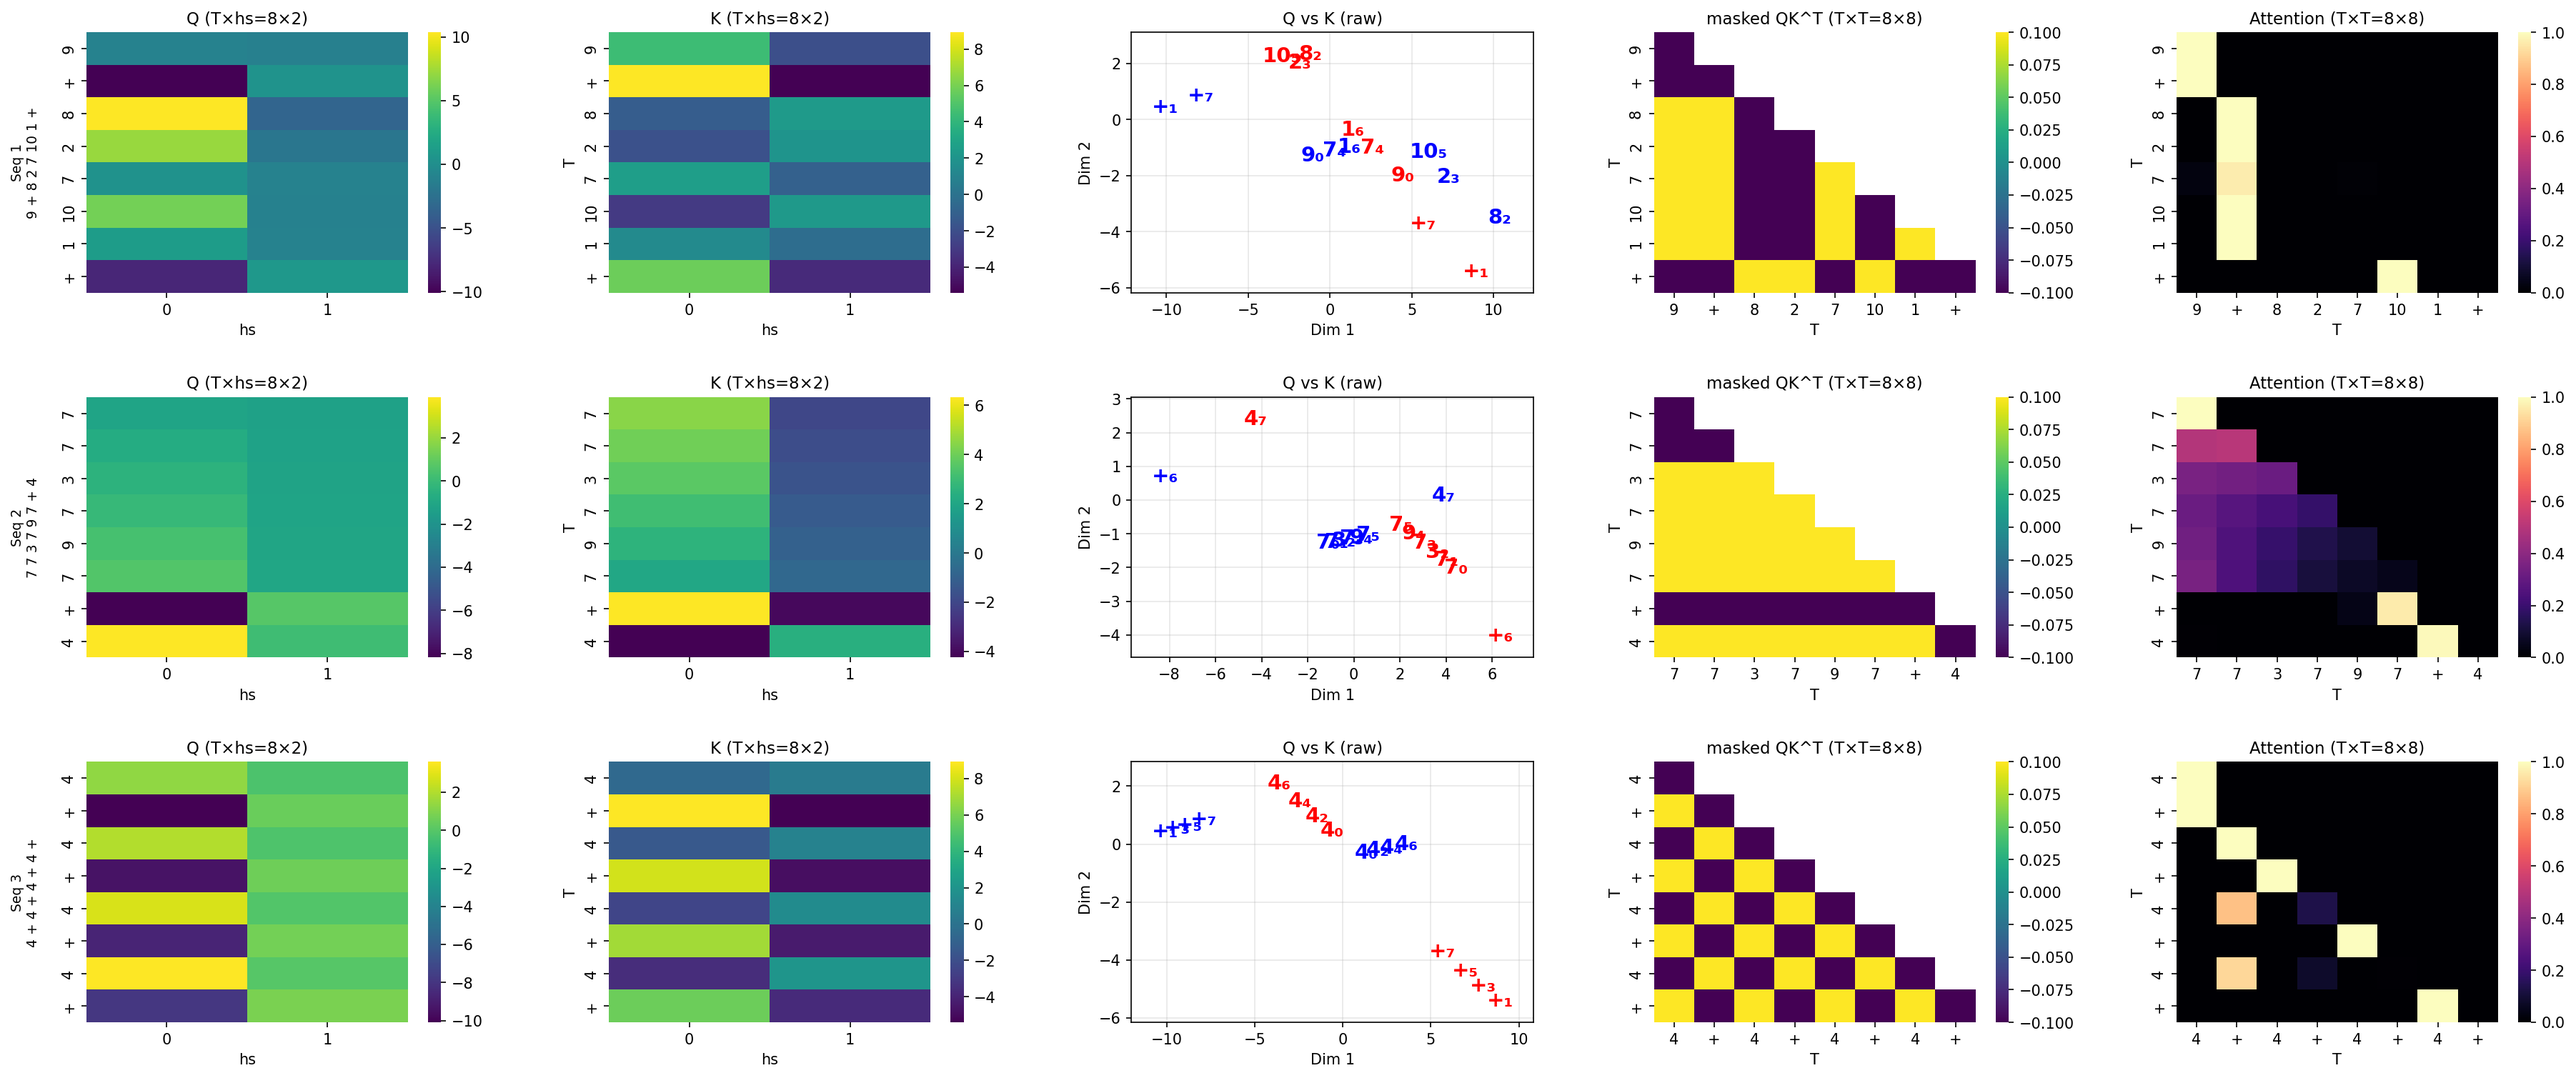
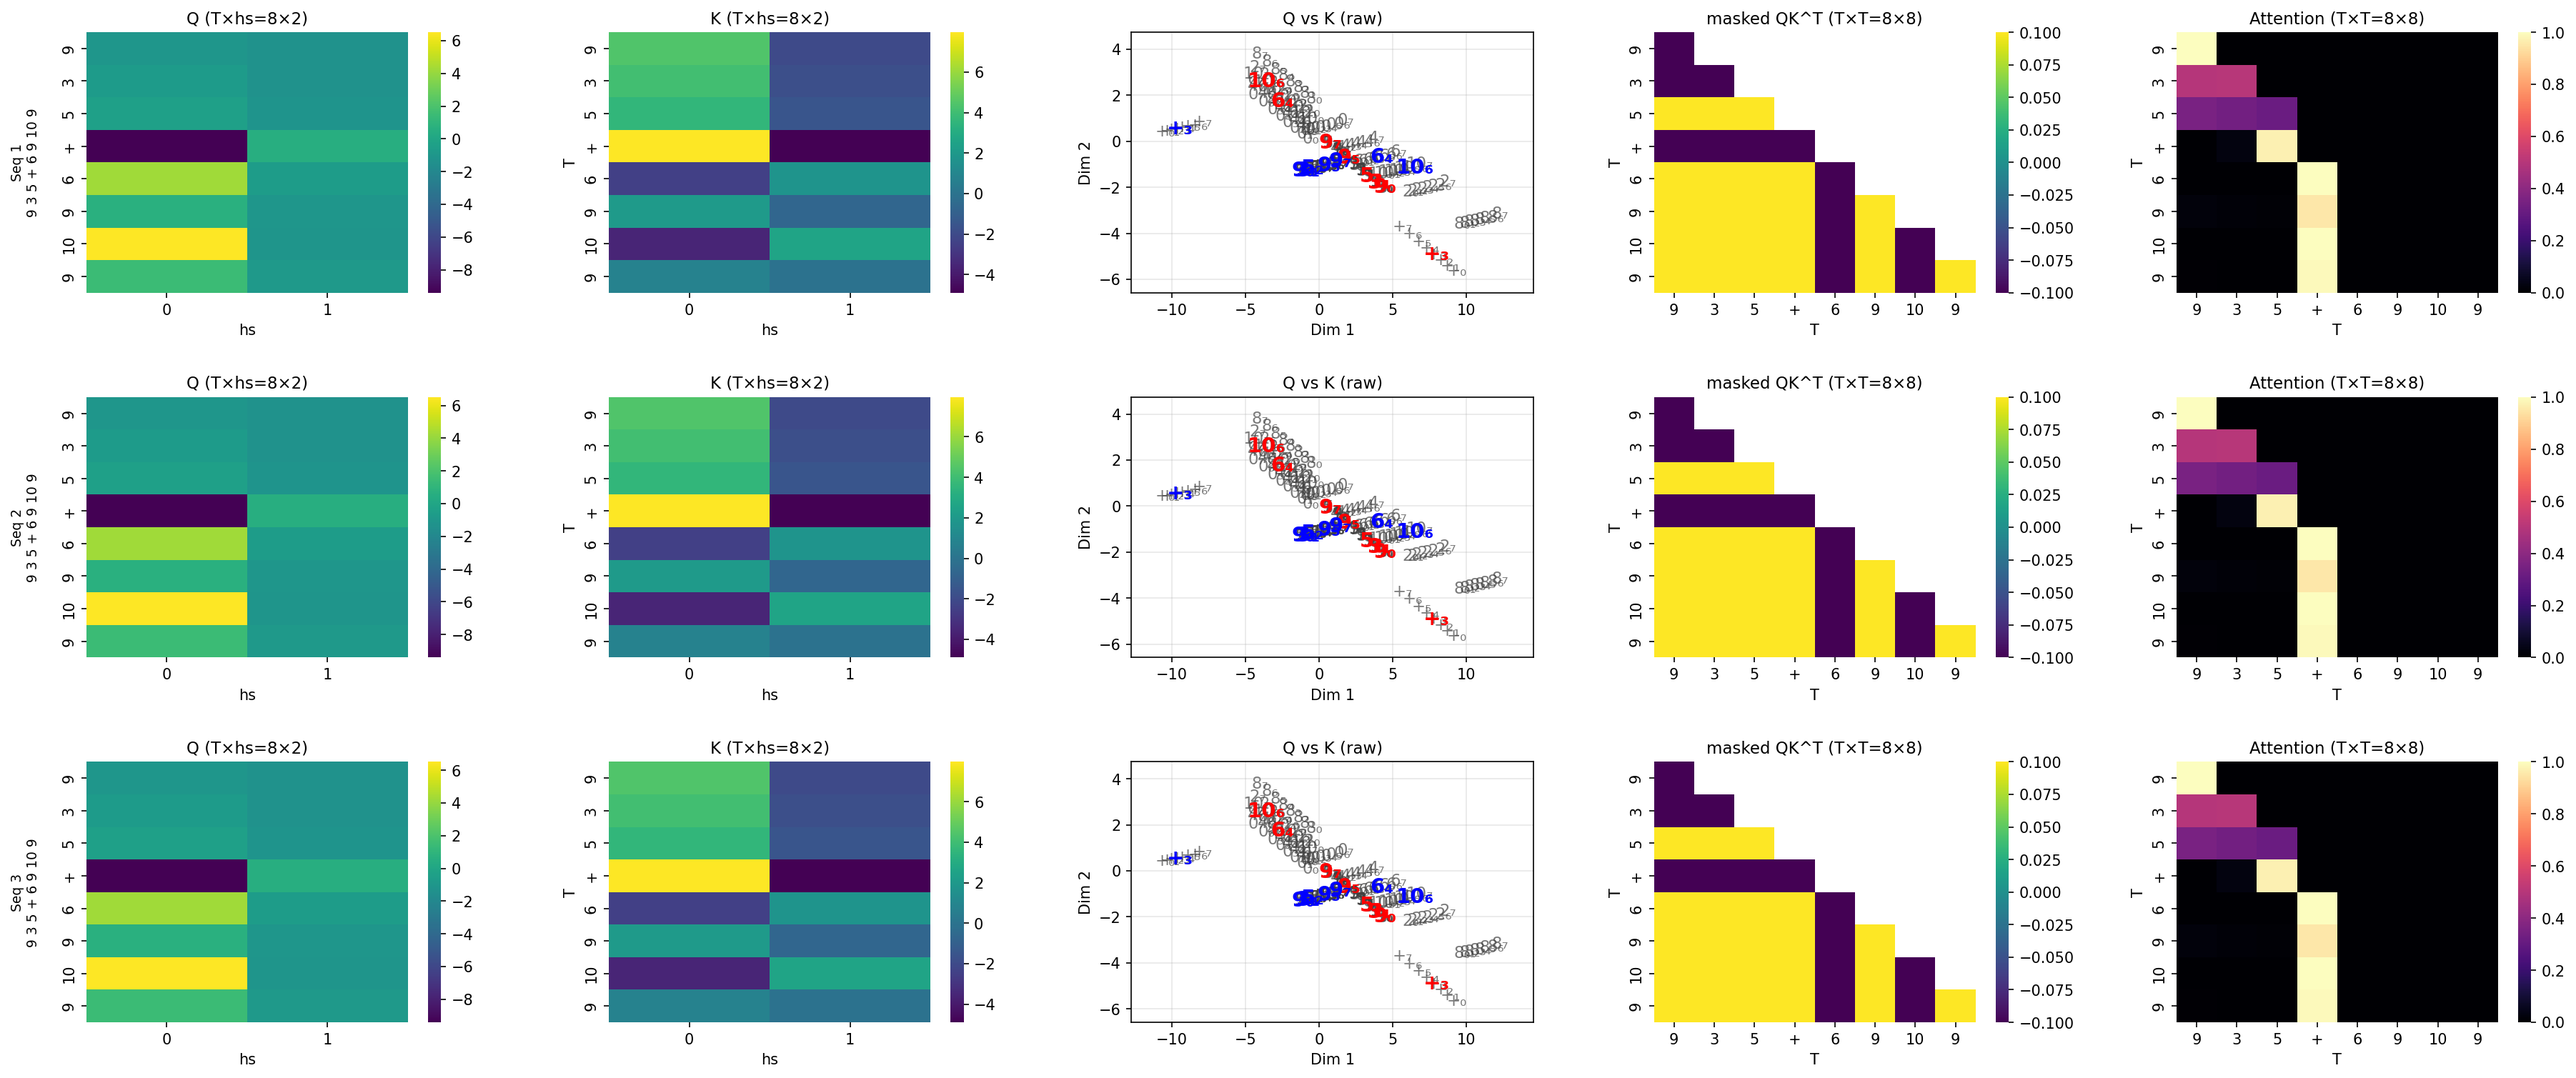
organized figures (figure 17 is left)

diff --git a/plotting/plots.py b/plotting/plots.py
@@ -2467,13 +2467,19 @@ def plot_weights_qkv_two_sequences(model, X_list, itos, save_path=None, num_sequ
         ax.set_ylim(y_min - y_margin, y_max + y_margin)
         
         # Background overlay: ALL Q/K combinations (annotated, dark visible grey)
+        # Draw overlay FIRST so it's underneath
         for i, label in enumerate(all_QK_labels):
-            # Overlay Q points (dark grey, more visible)
-            ax.text(all_Q_2d_overlay[i, 0], all_Q_2d_overlay[i, 1], label,
-                   fontsize=14, alpha=0.6, ha='center', va='center', color='dimgray', zorder=1)
-            # Overlay K points (dark grey, more visible)
-            ax.text(all_K_2d_overlay[i, 0], all_K_2d_overlay[i, 1], label,
-                   fontsize=14, alpha=0.6, ha='center', va='center', color='dimgray', zorder=1)
+            x_q, y_q = all_Q_2d_overlay[i, 0], all_Q_2d_overlay[i, 1]
+            x_k, y_k = all_K_2d_overlay[i, 0], all_K_2d_overlay[i, 1]
+            # Check if points are within axis limits before drawing
+            if x_min - x_margin <= x_q <= x_max + x_margin and y_min - y_margin <= y_q <= y_max + y_margin:
+                ax.text(x_q, y_q, label,
+                       fontsize=11, alpha=0.7, ha='center', va='center', 
+                       color='#404040', zorder=1)  # Smaller font size, darker grey
+            if x_min - x_margin <= x_k <= x_max + x_margin and y_min - y_margin <= y_k <= y_max + y_margin:
+                ax.text(x_k, y_k, label,
+                       fontsize=11, alpha=0.7, ha='center', va='center', 
+                       color='#404040', zorder=1)  # Smaller font size, darker grey
         
         # Foreground: Sequence-specific Q/K points
         for i, (token, pos) in enumerate(zip(tokens, range(len(tokens)))):
@@ -2516,8 +2522,11 @@ def plot_weights_qkv_two_sequences(model, X_list, itos, save_path=None, num_sequ
     
     plt.tight_layout(rect=[0, 0, 1, 0.98])
     if save_path:
-        # Save with meaningful name: query_key_attention (contains Q, K, masked QK^T, Attention)
-        save_path_part1 = save_path.replace('qkv.png', 'qkv_query_key_attention.png') if 'qkv.png' in save_path else save_path.replace('.png', '_query_key_attention.png') if save_path.endswith('.png') else save_path + '_query_key_attention.png'
+        # Save directly to the numbered filename (12_qk_attention.png)
+        # Extract directory and base name, then construct numbered filename
+        import os
+        save_dir = os.path.dirname(save_path)
+        save_path_part1 = os.path.join(save_dir, "12_qk_attention.png")
         plt.savefig(save_path_part1, bbox_inches='tight', dpi=150)
         plt.close()
     else:
@@ -2639,9 +2648,14 @@ def plot_weights_qkv_two_sequences(model, X_list, itos, save_path=None, num_sequ
         ax.set_ylim(ylim_shared)
         
         # Background overlay: ALL V combinations (annotated, dark visible grey)
+        # Draw overlay FIRST so it's underneath
         for i, label in enumerate(all_V_labels):
-            ax.text(all_V_2d_overlay[i, 0], all_V_2d_overlay[i, 1], label,
-                   fontsize=9, alpha=0.6, ha='center', va='center', color='dimgray', zorder=1)
+            # Check if point is within axis limits before drawing
+            x, y = all_V_2d_overlay[i, 0], all_V_2d_overlay[i, 1]
+            if xlim_shared[0] <= x <= xlim_shared[1] and ylim_shared[0] <= y <= ylim_shared[1]:
+                ax.text(x, y, label,
+                       fontsize=7, alpha=0.7, ha='center', va='center', 
+                       color='#404040', zorder=1)  # Smaller font size, darker grey
         
         # Foreground: Sequence-specific V points
         for i, (token, pos) in enumerate(zip(tokens, range(len(tokens)))):
@@ -2686,8 +2700,11 @@ def plot_weights_qkv_two_sequences(model, X_list, itos, save_path=None, num_sequ
     
     plt.tight_layout(rect=[0, 0, 1, 0.98])
     if save_path:
-        # Save with meaningful name: value_output (contains Attention, V, Final Output)
-        save_path_part2 = save_path.replace('qkv.png', 'qkv_value_output.png') if 'qkv.png' in save_path else save_path.replace('.png', '_value_output.png') if save_path.endswith('.png') else save_path + '_value_output.png'
+        # Save directly to the numbered filename (13_value_output.png)
+        # Extract directory and base name, then construct numbered filename
+        import os
+        save_dir = os.path.dirname(save_path)
+        save_path_part2 = os.path.join(save_dir, "13_value_output.png")
         plt.savefig(save_path_part2, bbox_inches='tight', dpi=150)
         plt.close()
     else:
@@ -4558,17 +4575,18 @@ def plot_v_before_after_demo_sequences(model, itos, sequences, save_dir=None, ar
             px_final, py_final = x_np[i, 0] + v_after[i, 0], x_np[i, 1] + v_after[i, 1]  # Final position
             for c in range(n_cols):
                 ax = axes[0, c]
-                # Draw arrow from embed to final
-                dx = px_final - px0
-                dy = py_final - py0
-                arrow_length = np.sqrt(dx**2 + dy**2)
-                head_size = max(0.1, min(0.2, arrow_length * 0.1))
-                ax.arrow(px0, py0, dx, dy,
-                        head_width=head_size, head_length=head_size, fc='white', ec='white', alpha=0.8, length_includes_head=True, width=0.01, zorder=4)
-                # Annotate at beginning (embed position)
+                # Draw arrow from embed to final (skip arrows for seq_idx==1, but keep labels)
+                if seq_idx != 1:  # Only draw arrows if NOT seq_idx==1 (plot 16)
+                    dx = px_final - px0
+                    dy = py_final - py0
+                    arrow_length = np.sqrt(dx**2 + dy**2)
+                    head_size = max(0.1, min(0.2, arrow_length * 0.1))
+                    ax.arrow(px0, py0, dx, dy,
+                            head_width=head_size, head_length=head_size, fc='white', ec='white', alpha=0.8, length_includes_head=True, width=0.01, zorder=4)
+                # Annotate at beginning (embed position) - keep this for all sequences
                 ax.text(px0, py0, lbl, fontsize=fs, fontweight='bold', ha='center', va='center', color='white', zorder=5,
                         path_effects=[pe.withStroke(linewidth=0.8, foreground='black')])
-            # Row 1: Final position; white text, stroke color = correct (green) / wrong (red)
+            # Row 1: Final position; white text, stroke color = correct (green) / wrong (red) - keep this for all sequences
             end_color = '#2E7D32' if correct[i] else '#C62828'
             for c in range(n_cols):
                 ax = axes[1, c]

diff --git a/visualize.py b/visualize.py
@@ -172,7 +172,7 @@ def visualize_from_checkpoint(
         plot_architecture_diagram(config, save_path=arch_path, model=model, vocab_size=vocab_size, batch_size=training_config.get('batch_size', 4))
 
     plot_weights_qkv_two_sequences(
-        model, X_list, itos, save_path=os.path.join(plots_dir, "qkv.png"), num_sequences=3
+        model, X_list, itos, save_path=_plot_path("qkv_query_key_attention.png"), num_sequences=3
     )
     plot_residuals(
         model, X_list, itos, save_path=_plot_path("residuals.png"), num_sequences=3
